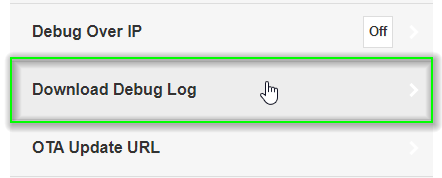
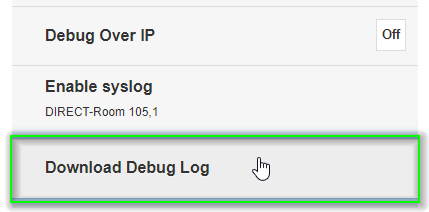
Enable syslog

diff --git a/docs/pro-stick-d10/logfile.md b/docs/pro-stick-d10/logfile.md
@@ -2,6 +2,10 @@
 
 Zu Support-Zwecken bitten wir Sie möglicherweise, dass Sie uns eine Logdatei Ihres Gerätes zukommen lassen. Es gibt zwei Arten von Logdateien:
 
+!!! tip "Hinweis"
+    
+	Eine Supportleistung bieten wir nur Kunden an, die bei uns bestellt haben. Bitte wenden Sie sich an Ihren Händler.
+	
 * [Debug Logdatei](#download.logfile)
 
 Mit der Funktion **Debug Logdatei herunterladen** handelt sich um die Logdatei, die direkt vom EZCast Pro Gerät heruntergeladen wird.
@@ -14,19 +18,15 @@ Mit dem Verfahren **Debug Over IP** werden die Debug-Informationen über Ihre Ne
 
 Dabei müssen Sie den `Engineer Mode` aktivieren und die Funktion `Download Debug Log` wählen. Mit Hilfe der Funktion **Erweiterte Einstellungen** können Sie sich anmelden und mit einem beliebigen Webbrowser die Logdatei herunterladen.
 
-### Erweiterte Einstellungen öffnen 
+### Erweiterte Einstellungen öffnen
 
-* Notieren Sie sich die IP-Adresse, die unten links auf der Startseite angezeigt wird.
+* Verbinden Sie Ihr Endgerät mit dem EZCast Pro II Gerät, entweder mit der SSID des EZCast Pro II Gerätes oder mit derselben WLAN- bzw. LAN-Infrastruktur, mit welcher das EZCast Pro II Gerät verbunden ist:
 
-![](/assets/img/ProIIDongle_IP.png)
+![](/assets/img/proII.network.connect.png)
 
-* Rufen Sie nun Ihren Web-Browser auf.
+* Geben Sie die IP-Adresse Ihres EZCast Pro Gerätes in einem beliebigen Webbrowser ein, die unten links auf der Startseite angezeigt wird:
 
-![](/assets/img/Google_Chrome.png)
-
-* Klicken Sie mit der Maus in die Adressleiste des Browsers und geben Sie die IP-Adresse des EZCast Pro Gerätes ein.
-
-![](/assets/img/IP-Address.png)
+![](/assets/img/proII_IP.connect.png)
 
 ### Sich als Admin anmelden
 
@@ -34,7 +34,7 @@ Dabei müssen Sie den `Engineer Mode` aktivieren und die Funktion `Download Debu
 
 ![](/assets/img/EZCastII_Login.png)
 
-### Debug Logdatei herunterladen
+### Engineer Mode aktivieren
 
 * Aus dem Hauptmenü wählen Sie `Admineinstellungen`:
 
@@ -48,7 +48,23 @@ Dabei müssen Sie den `Engineer Mode` aktivieren und die Funktion `Download Debu
 
 ![](/assets/img/proII.select.engineermode.png)
 
-* Klicken Sie auf die Funktion `Download Debug Log`. Eine Logdatei wird heruntergeladen:
+### Syslog aktivieren
+
+* Klicken Sie einmal auf die Funktion `Enable Syslog`, bis die letzte Zahl  eine `1` enthält:
+
+![](/assets/img/enable.syslog.1.png)
+
+* Um die Einstellung aktivieren, müssen Sie das EZCast Pro Gerät neustarten. Im Hauptmenü wählen Sie `Neustarten`.
+
+![](/assets/img/prostickII_menu.neustart.png)
+
+* Dann wählen Sie erneut die Schaltfläche `Neustarten`.
+
+![](/assets/img/restart.jpg)
+
+### Debug Logdatei herunterladen
+
+* Im Menü `Engineer Mode` klicken Sie auf die Funktion `Download Debug Log`. Eine Logdatei wird heruntergeladen:
 
 ![](/assets/img/proII.select.debuglog.png)
 
@@ -56,6 +72,19 @@ Dabei müssen Sie den `Engineer Mode` aktivieren und die Funktion `Download Debu
 
 ![](/assets/img/logfile.ticket.png)
 
+### Syslog deaktivieren
+
+* Klicken Sie einmal auf die Funktion `Enable Syslog`, bis die letzte Zahl  eine `0` enthält:
+
+![](/assets/img/enable.syslog.0.png)
+
+* Um die Einstellung abzuschließen, müssen Sie das EZCast Pro Gerät neustarten. Im Hauptmenü wählen Sie `Neustarten`.
+
+![](/assets/img/prostickII_menu.neustart.png)
+
+* Dann wählen Sie erneut die Schaltfläche `Neustarten`.
+
+![](/assets/img/restart.jpg)
 
 ## Debug Over IP durchführen {#debug.over.ip}
 
@@ -65,13 +94,17 @@ Mit Hilfe der Funktion **Erweiterte Einstellungen** können Sie sich anmelden un
 
 ### Erweiterte Einstellungen öffnen
 
-* Verbinden Sie Ihr Endgerät mit dem EZCast Pro II Gerät, entweder mit der SSID des EZCast Pro II Gerätes oder mit derselben WLAN- bzw. LAN-Infrastruktur, mit welcher das EZCast Pro II Gerät verbunden ist:
+* Notieren Sie sich die IP-Adresse, die unten links auf der Startseite angezeigt wird.
 
-![](/assets/img/proII.network.connect.png)
+![](/assets/img/ProIIDongle_IP.png)
 
-* Geben Sie die IP-Adresse Ihres EZCast Pro Gerätes in einem beliebigen Webbrowser ein, die unten links auf der Startseite angezeigt wird:
+* Rufen Sie nun Ihren Web-Browser auf.
 
-![](/assets/img/proII_IP.connect.png)
+![](/assets/img/Google_Chrome.png)
+
+* Klicken Sie mit der Maus in die Adressleiste des Browsers und geben Sie die IP-Adresse des EZCast Pro Gerätes ein.
+
+![](/assets/img/IP-Address.png)
 
 ### Sich als Admin anmelden
 

diff --git a/docs/pro-box-b10/logfile.md b/docs/pro-box-b10/logfile.md
@@ -34,7 +34,7 @@ Dabei müssen Sie den `Engineer Mode` aktivieren und die Funktion `Download Debu
 
 ![](/assets/img/EZCastII_Login.png)
 
-### Debug Logdatei herunterladen
+### Engineer Mode aktivieren
 
 * Aus dem Hauptmenü wählen Sie `Admineinstellungen`:
 
@@ -48,7 +48,23 @@ Dabei müssen Sie den `Engineer Mode` aktivieren und die Funktion `Download Debu
 
 ![](/assets/img/proII.select.engineermode.png)
 
-* Klicken Sie auf die Funktion `Download Debug Log`. Eine Logdatei wird heruntergeladen:
+### Syslog aktivieren
+
+* Klicken Sie einmal auf die Funktion `Enable Syslog`, bis die letzte Zahl  eine `1` enthält:
+
+![](/assets/img/enable.syslog.1.png)
+
+* Um die Einstellung aktivieren, müssen Sie das EZCast Pro Gerät neustarten. Im Hauptmenü wählen Sie `Neustarten`.
+
+![](/assets/img/prostickII_menu.neustart.png)
+
+* Dann wählen Sie erneut die Schaltfläche `Neustarten`.
+
+![](/assets/img/restart.jpg)
+
+### Debug Logdatei herunterladen
+
+* Im Menü `Engineer Mode` klicken Sie auf die Funktion `Download Debug Log`. Eine Logdatei wird heruntergeladen:
 
 ![](/assets/img/proII.select.debuglog.png)
 
@@ -56,6 +72,19 @@ Dabei müssen Sie den `Engineer Mode` aktivieren und die Funktion `Download Debu
 
 ![](/assets/img/logfile.ticket.png)
 
+### Syslog deaktivieren
+
+* Klicken Sie einmal auf die Funktion `Enable Syslog`, bis die letzte Zahl  eine `0` enthält:
+
+![](/assets/img/enable.syslog.0.png)
+
+* Um die Einstellung abzuschließen, müssen Sie das EZCast Pro Gerät neustarten. Im Hauptmenü wählen Sie `Neustarten`.
+
+![](/assets/img/prostickII_menu.neustart.png)
+
+* Dann wählen Sie erneut die Schaltfläche `Neustarten`.
+
+![](/assets/img/restart.jpg)
 
 ## Debug Over IP durchführen {#debug.over.ip}
 
